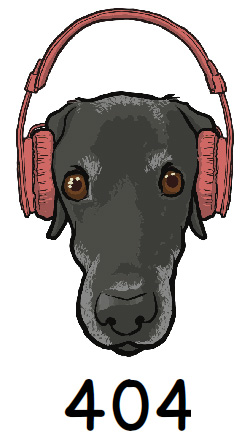
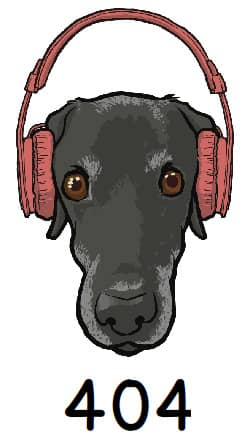
changed image src to msclvr

diff --git a/src/app/home/home.component.scss b/src/app/home/home.component.scss
@@ -192,7 +192,7 @@ $mobileBreak: 769px;
       width: 100%;
       height: 12em;
       padding: 1em;
-      background: url(http://msclvr.tomeralmog.com/assets/img/404.jpg) center center no-repeat;
+      background: url(//assets.msclvr.co/img/404.jpg) center center no-repeat;
       @include background-size(contain);
       @media screen and (min-width: $mobileBreak) {
         width: calc(40% - 2em);
@@ -217,7 +217,7 @@ $mobileBreak: 769px;
       width: 150px;
       height: 40px;
       display: inline-block;
-      background: #FFF url(http://msclvr.tomeralmog.com/assets/img/yt-logo.png) center center no-repeat;
+      background: #FFF url(//assets.msclvr.co/img/yt-logo.png) center center no-repeat;
       @include background-size(contain);
       @include fm-border-radius;
       cursor: pointer;

diff --git a/src/app/home/home.component.ts b/src/app/home/home.component.ts
@@ -19,7 +19,7 @@ interface FBWindow extends Window {
 export class HomeComponent {
   public slug: string;
   public promotion: Promotion;
-  public itunesBadge = 'http://msclvr.tomeralmog.com/assets/img/itunes.svg';
+  public itunesBadge = '//assets.msclvr.co/img/itunes.svg';
   public loading = true;
   public ytClicked = false;
   public pauseTimer = false;
@@ -104,7 +104,7 @@ export class HomeComponent {
     if(this.promotion && this.promotion.albumArtUrlLarge) {
       return 'url(' + this.promotion.albumArtUrlLarge + ')';
     } else {
-      return 'url(http://msclvr.tomeralmog.com/assets/img/msclvr-bg.png)';
+      return 'url(//assets.msclvr.co/img/msclvr-bg.png)';
     }
 
 

diff --git a/src/app/home/home.component.html b/src/app/home/home.component.html
@@ -71,7 +71,7 @@
   </div>
 
   <div class="bottom-logo">
-    <a href="https://msclvr.com/" target="_blank" ><img src="http://msclvr.tomeralmog.com/assets/img/square-logo.png" alt="msclvr" /></a>
+    <a href="https://msclvr.com/" target="_blank" ><img src="//assets.msclvr.co/img/square-logo.png" alt="msclvr" /></a>
   </div>
 
 </div>
